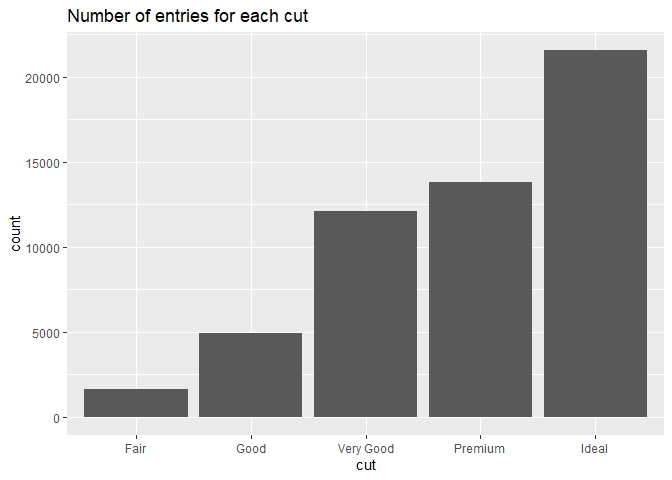
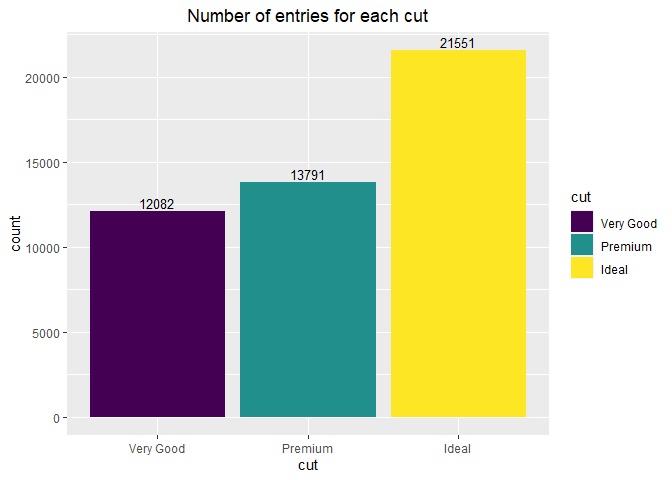
More features were added to the document.

diff --git a/assignment-b1.md b/assignment-b1.md
@@ -1,9 +1,9 @@
-Mini Data Analysis Milestone 2
+Assignment B-1
 ================
 
-### Assignment B-1: Making a function
+### Making a function
 
-This document is a solution to questions states in the assignment. It
+This document is a solution to questions stated in the assignment. It
 covers making a function in R, documenting it, and testing it.
 
 ### Setup
@@ -27,7 +27,7 @@ library(tidyverse)
     ## ℹ Use the conflicted package (<http://conflicted.r-lib.org/>) to force all conflicts to become errors
 
 ``` r
-library(testthat)
+library(testthat) 
 ```
 
     ## 
@@ -53,34 +53,43 @@ library(testthat)
 
 A plotting function has been made as part of this exercise.
 
-1.  This function accepts a dataframe and grouping column as a
-    parameter.  
+1.  This function accepts a dataframe, grouping column, slicing number
+    as a parameter.  
 2.  It then groups the entities of the column and counts the number of
     entries in each group.  
-3.  The output is then plotted as a bar chart.
+3.  The output is then plotted as a bar chart, as per the slicing
+    number.
 
 ``` r
 #' Function to group and plot the count of a column
 #' 
-#' This function is used to group a column, count the number of entries per group and plot a bar graph.
+#' This function is used to group a column, count the number of entries per group and plot a bar graph with number of bars as specified by the user.  
 #' 
 #' @param data_frame The dataframe on which the function is to be applied.
 #' @param group_column The column of the dataframe which is to be grouped.
+#' @param num The number of top entries to be displayed in the bar chart.
 #' @returns A bar chart showing count of each grouped entity.
 #' @example group_barchart(diamond, cut)
 
 # Function that groups a column and plots the counted rows in each group
-group_barchart <- function(data_frame, group_variable,...){
+group_barchart <- function(data_frame, group_variable, num, ...){
   label <- rlang::englue("Number of entries for each {{group_variable}}")
   
+  if(!is.numeric(num)) {
+    stop('I am so sorry, but this function only works for numeric input!\n',
+         'You have provided an object of class: ', class(num)[1])
+  }
+  
   data_frame %>%
-  group_by({{group_variable}}) %>%
-  summarise(count = n()) %>%
-  arrange(desc({{group_variable}})) %>%
-  ggplot(mapping = aes(x = {{group_variable}}, y = count)) +
-  geom_bar(stat="identity") +
-  labs(title = label)
-}
+    group_by({{group_variable}}) %>%
+    summarise(count = n()) %>%
+    slice_max(count, n = num) %>%
+    ggplot(mapping = aes(x = {{group_variable}}, y = count, fill = {{group_variable}})) +
+    geom_bar(stat="identity") +
+    geom_text(aes(label=count), vjust=-0.3, size=3.5) +
+    labs(title = label)+
+    theme(plot.title = element_text(hjust=0.5))
+  }
 ```
 
 ### Exercise 3: Include examples
@@ -105,7 +114,7 @@ head(diamonds)
 
 ``` r
 # In order to determine which cut is popular, group_barchart function has been used to make a bar chart.
-group_barchart(diamonds, cut)
+group_barchart(diamonds, cut, 3)
 ```
 
 ![](assignment-b1_files/figure-gfm/unnamed-chunk-4-1.png)<!-- -->
@@ -133,7 +142,7 @@ head(vancouver_trees)
 
 ``` r
 # In order to determine which street_side_name is popular, group_barchart function has been used to make a bar chart.   
-group_barchart(vancouver_trees, street_side_name)
+group_barchart(vancouver_trees, species_name, 5)
 ```
 
 ![](assignment-b1_files/figure-gfm/unnamed-chunk-6-1.png)<!-- -->
@@ -146,18 +155,18 @@ the working of the function.
 ``` r
 # Testing if ggplot object is returned
 test_that("Plot returns ggplot object",{
-  p <- group_barchart(diamonds, cut)
-  expect_is(p,"ggplot")
+  chart_1 <- group_barchart(diamonds, cut, 2)
+  expect_is(chart_1,"ggplot")
 })
 ```
 
-    ## Test passed 🎉
+    ## Test passed 🥳
 
 ``` r
 # Testing if the axis label is the same as column to be grouped
-test_that("Scale is labelled 'cut'",{
-  p <- group_barchart(diamonds, cut)
-  expect_identical(p$labels$x, "cut")
+test_that("Scale is labelled 'species_name'",{
+  chart_2 <- group_barchart(vancouver_trees, species_name, 10)
+  expect_identical(chart_2$labels$x, "species_name")
 })
 ```
 
@@ -166,8 +175,8 @@ test_that("Scale is labelled 'cut'",{
 ``` r
 ## Testing if the plot is being printed
 test_that("Printing ggplot object actually works",{
-    p <- group_barchart(diamonds, cut)
-    expect_error(print(p), NA)})
+    chart_3 <- group_barchart(diamonds, cut, 5)
+    expect_error(print(chart_3), NA)})
 ```
 
 ![](assignment-b1_files/figure-gfm/unnamed-chunk-7-1.png)<!-- -->
